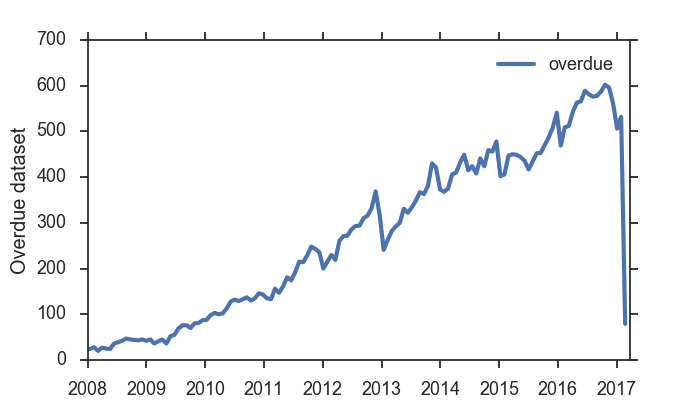
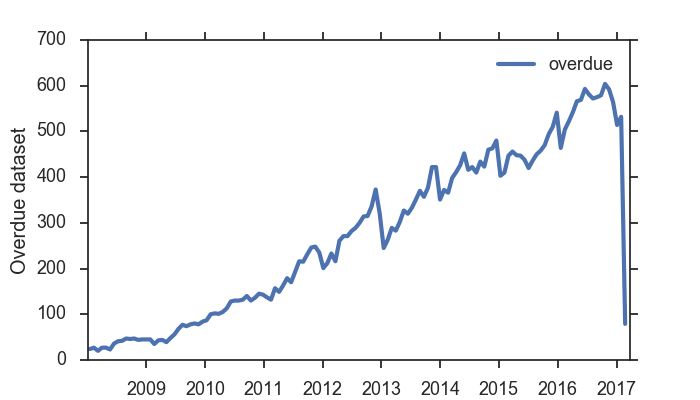
snapshot 2/24/2017

diff --git a/docs/index.html b/docs/index.html
@@ -7,7 +7,7 @@ Open Science Data Watch
 
 <center>
 <h1> Datasets overdue for publication in GEO repository </h1>
-<h3> Updated: 2017-02-23 </h3>
+<h3> Updated: 2017-02-24 </h3>
 <img src="graph.png">
 <br>
 An "overdue" dataset is one that is still has yet to be made public even after the first detected reference in a publication. 
@@ -18,7 +18,7 @@ Based on <a href="https://gbnci-abcc.ncifcrf.gov/geo/">GEOmetadb</a> with timest
 <br>
 </center>
 <br/><br/>
-<h4>Waiting for 79 datasets as of 2017-02-23:</h4>
+<h4>Waiting for 79 datasets as of 2017-02-24:</h4>
 <center>
 <table border="1" class="dataframe">
   <thead>
@@ -37,6 +37,13 @@ Based on <a href="https://gbnci-abcc.ncifcrf.gov/geo/">GEOmetadb</a> with timest
       <td>PLoS One</td>
       <td><a href="http://dx.doi.org/10.1371/journal.pone.0072669">10.1371/journal.pone.0072669</a></td>
       <td>High Correlation of the Response of Upper and Lower Lobe Small Airway Epithelium to Smoking</td>
+    </tr>
+    <tr>
+      <td><a href="http://www.ncbi.nlm.nih.gov/geo/query/acc.cgi?acc=GSE95368">GSE95368</a></td>
+      <td>2015-01-30</td>
+      <td>Hum Mol Genet</td>
+      <td><a href="http://dx.doi.org/10.1093/hmg/ddv034">10.1093/hmg/ddv034</a></td>
+      <td>Messenger RNA processing is altered in autosomal dominant leukodystrophy†</td>
     </tr>
     <tr>
       <td><a href="http://www.ncbi.nlm.nih.gov/geo/query/acc.cgi?acc=GSE74631">GSE74631</a></td>
@@ -165,13 +172,6 @@ Based on <a href="https://gbnci-abcc.ncifcrf.gov/geo/">GEOmetadb</a> with timest
       <td>A novel brain tumour model in zebrafish reveals the role of YAP activation in MAPK- and PI3K-induced malignant growth</td>
     </tr>
     <tr>
-      <td><a href="http://www.ncbi.nlm.nih.gov/geo/query/acc.cgi?acc=GSE89281">GSE89281</a></td>
-      <td>2017-01-03</td>
-      <td>Front Genet</td>
-      <td><a href="http://dx.doi.org/10.3389/fgene.2016.00218">10.3389/fgene.2016.00218</a></td>
-      <td>A Systems Approach Implicates a Brain Mitochondrial Oxidative Homeostasis Co-expression Network in Genetic Vulnerability to Alcohol Withdrawal</td>
-    </tr>
-    <tr>
       <td><a href="http://www.ncbi.nlm.nih.gov/geo/query/acc.cgi?acc=GSE84940">GSE84940</a></td>
       <td>2017-01-03</td>
       <td>PLoS One</td>
@@ -186,6 +186,13 @@ Based on <a href="https://gbnci-abcc.ncifcrf.gov/geo/">GEOmetadb</a> with timest
       <td>TetR Family Regulator brpT Modulates Biofilm Formation in Streptococcus sanguinis</td>
     </tr>
     <tr>
+      <td><a href="http://www.ncbi.nlm.nih.gov/geo/query/acc.cgi?acc=GSE89281">GSE89281</a></td>
+      <td>2017-01-03</td>
+      <td>Front Genet</td>
+      <td><a href="http://dx.doi.org/10.3389/fgene.2016.00218">10.3389/fgene.2016.00218</a></td>
+      <td>A Systems Approach Implicates a Brain Mitochondrial Oxidative Homeostasis Co-expression Network in Genetic Vulnerability to Alcohol Withdrawal</td>
+    </tr>
+    <tr>
       <td><a href="http://www.ncbi.nlm.nih.gov/geo/query/acc.cgi?acc=GSE90703">GSE90703</a></td>
       <td>2017-01-04</td>
       <td>G3 (Bethesda)</td>
@@ -193,25 +200,11 @@ Based on <a href="https://gbnci-abcc.ncifcrf.gov/geo/">GEOmetadb</a> with timest
       <td>upSET, the Drosophila homologue of SET3, Is Required for Viability and the Proper Balance of Active and Repressive Chromatin Marks</td>
     </tr>
     <tr>
-      <td><a href="http://www.ncbi.nlm.nih.gov/geo/query/acc.cgi?acc=GSE79479">GSE79479</a></td>
-      <td>2017-01-05</td>
-      <td>Sci Rep</td>
-      <td><a href="http://dx.doi.org/10.1038/srep38864">10.1038/srep38864</a></td>
-      <td>Effect of dietary Astragalus Polysaccharide supplements on testicular miRNA expression profiles and enzymatic changes of breeder cocks</td>
-    </tr>
-    <tr>
-      <td><a href="http://www.ncbi.nlm.nih.gov/geo/query/acc.cgi?acc=GSE80022">GSE80022</a></td>
-      <td>2017-01-05</td>
-      <td>EJNMMI Res</td>
-      <td><a href="http://dx.doi.org/10.1186/s13550-016-0247-y">10.1186/s13550-016-0247-y</a></td>
-      <td>Priming increases the anti-tumor effect and therapeutic window of 177Lu-octreotate in nude mice bearing human small intestine neuroendocrine tumor GOT1</td>
-    </tr>
-    <tr>
-      <td><a href="http://www.ncbi.nlm.nih.gov/geo/query/acc.cgi?acc=GSE86641">GSE86641</a></td>
+      <td><a href="http://www.ncbi.nlm.nih.gov/geo/query/acc.cgi?acc=GSE86891">GSE86891</a></td>
       <td>2017-01-05</td>
       <td>Front Plant Sci</td>
-      <td><a href="http://dx.doi.org/10.3389/fpls.2016.02024">10.3389/fpls.2016.02024</a></td>
-      <td>Identification of Circular RNAs and Their Targets in Leaves of Triticum aestivum L. under Dehydration Stress</td>
+      <td><a href="http://dx.doi.org/10.3389/fpls.2016.01979">10.3389/fpls.2016.01979</a></td>
+      <td>A Grapevine TTG2-Like WRKY Transcription Factor Is Involved in Regulating Vacuolar Transport and Flavonoid Biosynthesis</td>
     </tr>
     <tr>
       <td><a href="http://www.ncbi.nlm.nih.gov/geo/query/acc.cgi?acc=GSE86890">GSE86890</a></td>
@@ -221,11 +214,25 @@ Based on <a href="https://gbnci-abcc.ncifcrf.gov/geo/">GEOmetadb</a> with timest
       <td>A Grapevine TTG2-Like WRKY Transcription Factor Is Involved in Regulating Vacuolar Transport and Flavonoid Biosynthesis</td>
     </tr>
     <tr>
-      <td><a href="http://www.ncbi.nlm.nih.gov/geo/query/acc.cgi?acc=GSE86891">GSE86891</a></td>
+      <td><a href="http://www.ncbi.nlm.nih.gov/geo/query/acc.cgi?acc=GSE86641">GSE86641</a></td>
       <td>2017-01-05</td>
       <td>Front Plant Sci</td>
-      <td><a href="http://dx.doi.org/10.3389/fpls.2016.01979">10.3389/fpls.2016.01979</a></td>
-      <td>A Grapevine TTG2-Like WRKY Transcription Factor Is Involved in Regulating Vacuolar Transport and Flavonoid Biosynthesis</td>
+      <td><a href="http://dx.doi.org/10.3389/fpls.2016.02024">10.3389/fpls.2016.02024</a></td>
+      <td>Identification of Circular RNAs and Their Targets in Leaves of Triticum aestivum L. under Dehydration Stress</td>
+    </tr>
+    <tr>
+      <td><a href="http://www.ncbi.nlm.nih.gov/geo/query/acc.cgi?acc=GSE80022">GSE80022</a></td>
+      <td>2017-01-05</td>
+      <td>EJNMMI Res</td>
+      <td><a href="http://dx.doi.org/10.1186/s13550-016-0247-y">10.1186/s13550-016-0247-y</a></td>
+      <td>Priming increases the anti-tumor effect and therapeutic window of 177Lu-octreotate in nude mice bearing human small intestine neuroendocrine tumor GOT1</td>
+    </tr>
+    <tr>
+      <td><a href="http://www.ncbi.nlm.nih.gov/geo/query/acc.cgi?acc=GSE79479">GSE79479</a></td>
+      <td>2017-01-05</td>
+      <td>Sci Rep</td>
+      <td><a href="http://dx.doi.org/10.1038/srep38864">10.1038/srep38864</a></td>
+      <td>Effect of dietary Astragalus Polysaccharide supplements on testicular miRNA expression profiles and enzymatic changes of breeder cocks</td>
     </tr>
     <tr>
       <td><a href="http://www.ncbi.nlm.nih.gov/geo/query/acc.cgi?acc=GSE84440">GSE84440</a></td>
@@ -256,6 +263,13 @@ Based on <a href="https://gbnci-abcc.ncifcrf.gov/geo/">GEOmetadb</a> with timest
       <td>Functional changes in mRNA expression and alternative pre-mRNA splicing associated with the effects of nutrition on apoptosis and spermatogenesis in the adult testis</td>
     </tr>
     <tr>
+      <td><a href="http://www.ncbi.nlm.nih.gov/geo/query/acc.cgi?acc=GSE78973">GSE78973</a></td>
+      <td>2017-01-11</td>
+      <td>FEBS Open Bio</td>
+      <td><a href="http://dx.doi.org/10.1002/2211-5463.12174">10.1002/2211-5463.12174</a></td>
+      <td>\nDicer, a new regulator of pluripotency exit and LINE‐1 elements in mouse embryonic stem cells</td>
+    </tr>
+    <tr>
       <td><a href="http://www.ncbi.nlm.nih.gov/geo/query/acc.cgi?acc=GSE86621">GSE86621</a></td>
       <td>2017-01-11</td>
       <td>Exp Hematol Oncol</td>
@@ -270,7 +284,7 @@ Based on <a href="https://gbnci-abcc.ncifcrf.gov/geo/">GEOmetadb</a> with timest
       <td>Molecular classification of tissue from a transformed non-Hogkin’s lymphoma case with unexpected long-time remission</td>
     </tr>
     <tr>
-      <td><a href="http://www.ncbi.nlm.nih.gov/geo/query/acc.cgi?acc=GSE78973">GSE78973</a></td>
+      <td><a href="http://www.ncbi.nlm.nih.gov/geo/query/acc.cgi?acc=GSE78971">GSE78971</a></td>
       <td>2017-01-11</td>
       <td>FEBS Open Bio</td>
       <td><a href="http://dx.doi.org/10.1002/2211-5463.12174">10.1002/2211-5463.12174</a></td>
@@ -284,13 +298,6 @@ Based on <a href="https://gbnci-abcc.ncifcrf.gov/geo/">GEOmetadb</a> with timest
       <td>A Knockout Screen of ApiAP2 Genes Reveals Networks of Interacting Transcriptional Regulators Controlling the Plasmodium Life Cycle</td>
     </tr>
     <tr>
-      <td><a href="http://www.ncbi.nlm.nih.gov/geo/query/acc.cgi?acc=GSE89202">GSE89202</a></td>
-      <td>2017-01-11</td>
-      <td>Sci Rep</td>
-      <td><a href="http://dx.doi.org/10.1038/srep40413">10.1038/srep40413</a></td>
-      <td>MiR-218 targets MeCP2 and inhibits heroin seeking behavior</td>
-    </tr>
-    <tr>
       <td><a href="http://www.ncbi.nlm.nih.gov/geo/query/acc.cgi?acc=GSE86613">GSE86613</a></td>
       <td>2017-01-11</td>
       <td>Exp Hematol Oncol</td>
@@ -298,11 +305,11 @@ Based on <a href="https://gbnci-abcc.ncifcrf.gov/geo/">GEOmetadb</a> with timest
       <td>Molecular classification of tissue from a transformed non-Hogkin’s lymphoma case with unexpected long-time remission</td>
     </tr>
     <tr>
-      <td><a href="http://www.ncbi.nlm.nih.gov/geo/query/acc.cgi?acc=GSE78971">GSE78971</a></td>
+      <td><a href="http://www.ncbi.nlm.nih.gov/geo/query/acc.cgi?acc=GSE89202">GSE89202</a></td>
       <td>2017-01-11</td>
-      <td>FEBS Open Bio</td>
-      <td><a href="http://dx.doi.org/10.1002/2211-5463.12174">10.1002/2211-5463.12174</a></td>
-      <td>\nDicer, a new regulator of pluripotency exit and LINE‐1 elements in mouse embryonic stem cells</td>
+      <td>Sci Rep</td>
+      <td><a href="http://dx.doi.org/10.1038/srep40413">10.1038/srep40413</a></td>
+      <td>MiR-218 targets MeCP2 and inhibits heroin seeking behavior</td>
     </tr>
     <tr>
       <td><a href="http://www.ncbi.nlm.nih.gov/geo/query/acc.cgi?acc=GSE86505">GSE86505</a></td>
@@ -347,11 +354,11 @@ Based on <a href="https://gbnci-abcc.ncifcrf.gov/geo/">GEOmetadb</a> with timest
       <td>Sox17 drives functional engraftment of endothelium converted from non-vascular cells</td>
     </tr>
     <tr>
-      <td><a href="http://www.ncbi.nlm.nih.gov/geo/query/acc.cgi?acc=GSE93153">GSE93153</a></td>
+      <td><a href="http://www.ncbi.nlm.nih.gov/geo/query/acc.cgi?acc=GSE88909">GSE88909</a></td>
       <td>2017-01-17</td>
-      <td>PLoS One</td>
-      <td><a href="http://dx.doi.org/10.1371/journal.pone.0169648">10.1371/journal.pone.0169648</a></td>
-      <td>The Smc5/6 Complex Restricts HBV when Localized to ND10 without Inducing an Innate Immune Response and Is Counteracted by the HBV X Protein Shortly after Infection</td>
+      <td>Breast Cancer Res</td>
+      <td><a href="http://dx.doi.org/10.1186/s13058-016-0789-y">10.1186/s13058-016-0789-y</a></td>
+      <td>PIK3CA mutations are common in lobular carcinoma in situ, but are not a biomarker of progression</td>
     </tr>
     <tr>
       <td><a href="http://www.ncbi.nlm.nih.gov/geo/query/acc.cgi?acc=GSE75300">GSE75300</a></td>
@@ -361,18 +368,18 @@ Based on <a href="https://gbnci-abcc.ncifcrf.gov/geo/">GEOmetadb</a> with timest
       <td>Contribution of classical end-joining to PTEN inactivation in p53-mediated glioblastoma formation and drug-resistant survival</td>
     </tr>
     <tr>
-      <td><a href="http://www.ncbi.nlm.nih.gov/geo/query/acc.cgi?acc=GSE88909">GSE88909</a></td>
+      <td><a href="http://www.ncbi.nlm.nih.gov/geo/query/acc.cgi?acc=GSE93153">GSE93153</a></td>
       <td>2017-01-17</td>
-      <td>Breast Cancer Res</td>
-      <td><a href="http://dx.doi.org/10.1186/s13058-016-0789-y">10.1186/s13058-016-0789-y</a></td>
-      <td>PIK3CA mutations are common in lobular carcinoma in situ, but are not a biomarker of progression</td>
+      <td>PLoS One</td>
+      <td><a href="http://dx.doi.org/10.1371/journal.pone.0169648">10.1371/journal.pone.0169648</a></td>
+      <td>The Smc5/6 Complex Restricts HBV when Localized to ND10 without Inducing an Innate Immune Response and Is Counteracted by the HBV X Protein Shortly after Infection</td>
     </tr>
     <tr>
-      <td><a href="http://www.ncbi.nlm.nih.gov/geo/query/acc.cgi?acc=GSE79612">GSE79612</a></td>
+      <td><a href="http://www.ncbi.nlm.nih.gov/geo/query/acc.cgi?acc=GSE73284">GSE73284</a></td>
       <td>2017-01-18</td>
-      <td>BMC Bioinformatics</td>
-      <td><a href="http://dx.doi.org/10.1186/s12859-017-1477-3">10.1186/s12859-017-1477-3</a></td>
-      <td>SMITE: an R/Bioconductor package that identifies network modules by integrating genomic and epigenomic information</td>
+      <td>Nat Commun</td>
+      <td><a href="http://dx.doi.org/10.1038/ncomms14122">10.1038/ncomms14122</a></td>
+      <td>Fluid shear stress activates YAP1 to promote cancer cell motility</td>
     </tr>
     <tr>
       <td><a href="http://www.ncbi.nlm.nih.gov/geo/query/acc.cgi?acc=GSE91383">GSE91383</a></td>
@@ -382,11 +389,11 @@ Based on <a href="https://gbnci-abcc.ncifcrf.gov/geo/">GEOmetadb</a> with timest
       <td>The antineoplastic drug, trastuzumab, dysregulates metabolism in iPSC-derived cardiomyocytes</td>
     </tr>
     <tr>
-      <td><a href="http://www.ncbi.nlm.nih.gov/geo/query/acc.cgi?acc=GSE73284">GSE73284</a></td>
+      <td><a href="http://www.ncbi.nlm.nih.gov/geo/query/acc.cgi?acc=GSE79612">GSE79612</a></td>
       <td>2017-01-18</td>
-      <td>Nat Commun</td>
-      <td><a href="http://dx.doi.org/10.1038/ncomms14122">10.1038/ncomms14122</a></td>
-      <td>Fluid shear stress activates YAP1 to promote cancer cell motility</td>
+      <td>BMC Bioinformatics</td>
+      <td><a href="http://dx.doi.org/10.1186/s12859-017-1477-3">10.1186/s12859-017-1477-3</a></td>
+      <td>SMITE: an R/Bioconductor package that identifies network modules by integrating genomic and epigenomic information</td>
     </tr>
     <tr>
       <td><a href="http://www.ncbi.nlm.nih.gov/geo/query/acc.cgi?acc=GSE80148">GSE80148</a></td>
@@ -424,11 +431,11 @@ Based on <a href="https://gbnci-abcc.ncifcrf.gov/geo/">GEOmetadb</a> with timest
       <td>Comparative RNA-seq based transcriptomic analysis of bud dormancy in grape</td>
     </tr>
     <tr>
-      <td><a href="http://www.ncbi.nlm.nih.gov/geo/query/acc.cgi?acc=GSE83962">GSE83962</a></td>
+      <td><a href="http://www.ncbi.nlm.nih.gov/geo/query/acc.cgi?acc=GSE79379">GSE79379</a></td>
       <td>2017-01-20</td>
-      <td>Sci Adv</td>
-      <td><a href="http://dx.doi.org/10.1126/sciadv.1601602">10.1126/sciadv.1601602</a></td>
-      <td>ASXL1 interacts with the cohesin complex to maintain chromatid separation and gene expression for normal hematopoiesis</td>
+      <td>Front Immunol</td>
+      <td><a href="http://dx.doi.org/10.3389/fimmu.2017.00032">10.3389/fimmu.2017.00032</a></td>
+      <td>Loss of CD44dim Expression from Early Progenitor Cells Marks T-Cell Lineage Commitment in the Human Thymus</td>
     </tr>
     <tr>
       <td><a href="http://www.ncbi.nlm.nih.gov/geo/query/acc.cgi?acc=GSE86415">GSE86415</a></td>
@@ -438,11 +445,11 @@ Based on <a href="https://gbnci-abcc.ncifcrf.gov/geo/">GEOmetadb</a> with timest
       <td>Diverse feather shape evolution enabled by coupling anisotropic signalling modules with self-organizing branching programme</td>
     </tr>
     <tr>
-      <td><a href="http://www.ncbi.nlm.nih.gov/geo/query/acc.cgi?acc=GSE79379">GSE79379</a></td>
-      <td>2017-01-20</td>
-      <td>Front Immunol</td>
-      <td><a href="http://dx.doi.org/10.3389/fimmu.2017.00032">10.3389/fimmu.2017.00032</a></td>
-      <td>Loss of CD44dim Expression from Early Progenitor Cells Marks T-Cell Lineage Commitment in the Human Thymus</td>
+      <td><a href="http://www.ncbi.nlm.nih.gov/geo/query/acc.cgi?acc=GSE81471">GSE81471</a></td>
+      <td>2017-01-25</td>
+      <td>Sci Rep</td>
+      <td><a href="http://dx.doi.org/10.1038/srep41131">10.1038/srep41131</a></td>
+      <td>Parathyroid Hormone-Like Hormone is a Poor Prognosis Marker of Head and Neck Cancer and Promotes Cell Growth via RUNX2 Regulation</td>
     </tr>
     <tr>
       <td><a href="http://www.ncbi.nlm.nih.gov/geo/query/acc.cgi?acc=GSE83195">GSE83195</a></td>
@@ -450,13 +457,6 @@ Based on <a href="https://gbnci-abcc.ncifcrf.gov/geo/">GEOmetadb</a> with timest
       <td>BMC Genomics</td>
       <td><a href="http://dx.doi.org/10.1186/s12864-016-3433-4">10.1186/s12864-016-3433-4</a></td>
       <td>Short bowel syndrome results in increased gene expression associated with proliferation, inflammation, bile acid synthesis and immune system activation: RNA sequencing a zebrafish SBS model</td>
-    </tr>
-    <tr>
-      <td><a href="http://www.ncbi.nlm.nih.gov/geo/query/acc.cgi?acc=GSE81471">GSE81471</a></td>
-      <td>2017-01-25</td>
-      <td>Sci Rep</td>
-      <td><a href="http://dx.doi.org/10.1038/srep41131">10.1038/srep41131</a></td>
-      <td>Parathyroid Hormone-Like Hormone is a Poor Prognosis Marker of Head and Neck Cancer and Promotes Cell Growth via RUNX2 Regulation</td>
     </tr>
     <tr>
       <td><a href="http://www.ncbi.nlm.nih.gov/geo/query/acc.cgi?acc=GSE80419">GSE80419</a></td>
@@ -501,13 +501,6 @@ Based on <a href="https://gbnci-abcc.ncifcrf.gov/geo/">GEOmetadb</a> with timest
       <td>A porcine gluteus medius muscle genome-wide transcriptome analysis: dietary effects of omega-6 and omega-3 fatty acids on biological mechanisms</td>
     </tr>
     <tr>
-      <td><a href="http://www.ncbi.nlm.nih.gov/geo/query/acc.cgi?acc=GSE78062">GSE78062</a></td>
-      <td>2017-02-01</td>
-      <td>Invest Ophthalmol Vis Sci</td>
-      <td><a href="http://dx.doi.org/10.1167/iovs.16-20315">10.1167/iovs.16-20315</a></td>
-      <td>Molecular Profiling of the Developing Lacrimal Gland Reveals Putative Role of Notch Signaling in Branching Morphogenesis</td>
-    </tr>
-    <tr>
       <td><a href="http://www.ncbi.nlm.nih.gov/geo/query/acc.cgi?acc=GSE84768">GSE84768</a></td>
       <td>2017-02-01</td>
       <td>Front Plant Sci</td>
@@ -515,11 +508,11 @@ Based on <a href="https://gbnci-abcc.ncifcrf.gov/geo/">GEOmetadb</a> with timest
       <td>Pistil Transcriptome Analysis to Disclose Genes and Gene Products Related to Aposporous Apomixis in Hypericum perforatum L.</td>
     </tr>
     <tr>
-      <td><a href="http://www.ncbi.nlm.nih.gov/geo/query/acc.cgi?acc=GSE90811">GSE90811</a></td>
-      <td>2017-02-02</td>
-      <td>Sci Rep</td>
-      <td><a href="http://dx.doi.org/10.1038/srep41474">10.1038/srep41474</a></td>
-      <td>Genome-wide DNA methylation reprogramming in response to inorganic arsenic links inhibition of CTCF binding, DNMT expression and cellular transformation</td>
+      <td><a href="http://www.ncbi.nlm.nih.gov/geo/query/acc.cgi?acc=GSE78062">GSE78062</a></td>
+      <td>2017-02-01</td>
+      <td>Invest Ophthalmol Vis Sci</td>
+      <td><a href="http://dx.doi.org/10.1167/iovs.16-20315">10.1167/iovs.16-20315</a></td>
+      <td>Molecular Profiling of the Developing Lacrimal Gland Reveals Putative Role of Notch Signaling in Branching Morphogenesis</td>
     </tr>
     <tr>
       <td><a href="http://www.ncbi.nlm.nih.gov/geo/query/acc.cgi?acc=GSE86565">GSE86565</a></td>
@@ -530,6 +523,13 @@ Based on <a href="https://gbnci-abcc.ncifcrf.gov/geo/">GEOmetadb</a> with timest
     </tr>
     <tr>
       <td><a href="http://www.ncbi.nlm.nih.gov/geo/query/acc.cgi?acc=GSE85012">GSE85012</a></td>
+      <td>2017-02-02</td>
+      <td>Sci Rep</td>
+      <td><a href="http://dx.doi.org/10.1038/srep41474">10.1038/srep41474</a></td>
+      <td>Genome-wide DNA methylation reprogramming in response to inorganic arsenic links inhibition of CTCF binding, DNMT expression and cellular transformation</td>
+    </tr>
+    <tr>
+      <td><a href="http://www.ncbi.nlm.nih.gov/geo/query/acc.cgi?acc=GSE90811">GSE90811</a></td>
       <td>2017-02-02</td>
       <td>Sci Rep</td>
       <td><a href="http://dx.doi.org/10.1038/srep41474">10.1038/srep41474</a></td>
